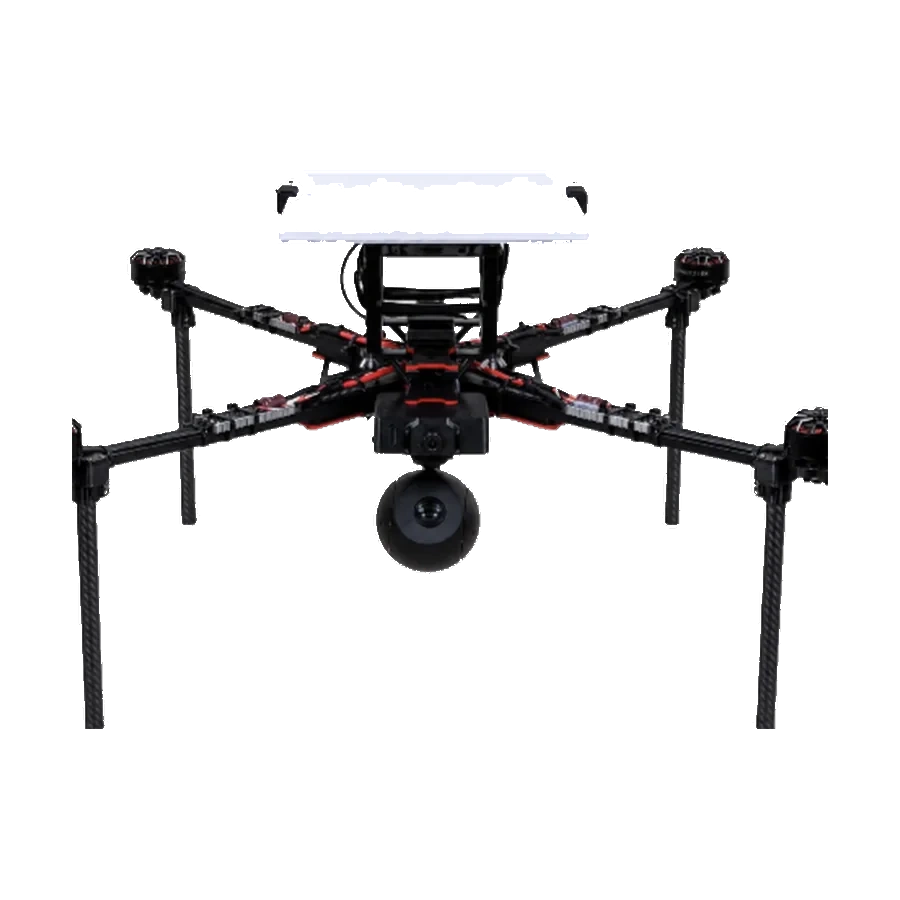
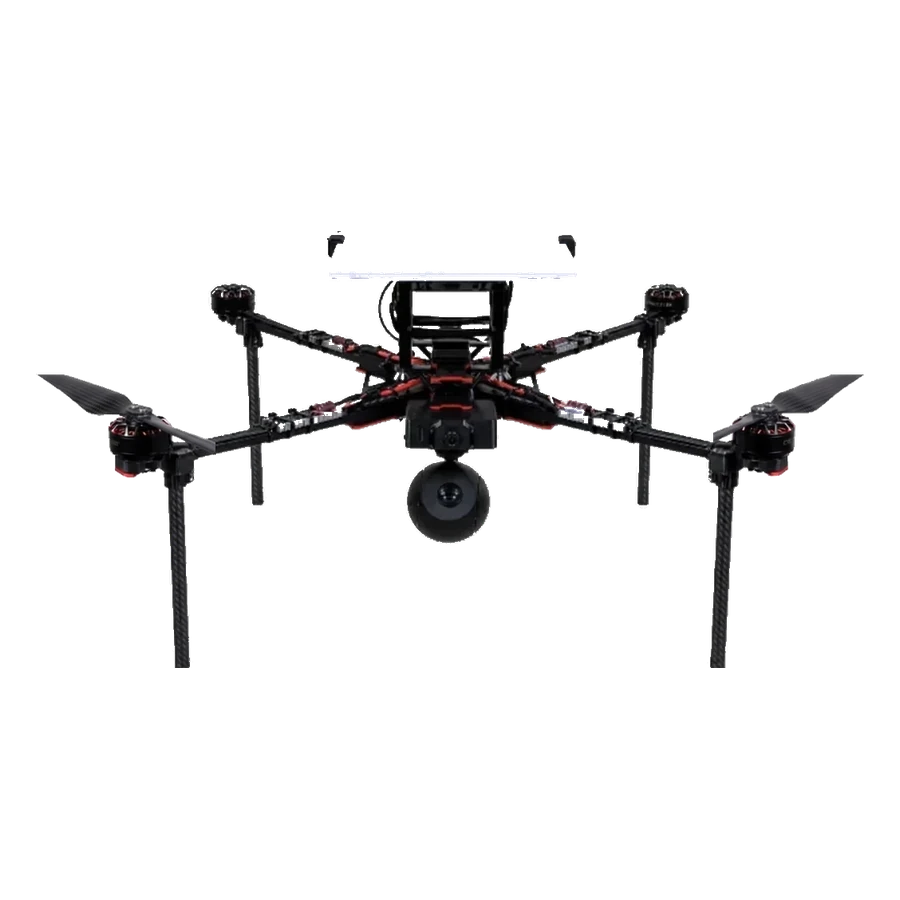
Фото: добудовано зрізані мотори розвідника, перекадровано фото з коробками
- zhrecon: домальовано обидва нижні мотори зі складеними пропелерами,
  решта пікселів з оригінального фото; прибрано артефакти
- окремі кадри для обкладинки (1240x900) і для плиток та креслення (900x900)
- виноски на кресленні переставлено під новий кадр
- story-odesa перезібрано з оригіналу в 4:3 із запасом над головою

Changed region(s): [[0.0311, 0.1867, 0.9644, 0.8089]]

diff --git a/zhnets-recon.html b/zhnets-recon.html
@@ -668,9 +668,9 @@ html.hdr-sc .topbar{border-bottom-width:0;visibility:hidden;pointer-events:none}
         <div class="drawing">
           <div class="drawing-zoom">
           <img src="assets/img/zhrecon.webp" alt="Розвідувальний «Жнець», вигляд спереду" width="900" height="900" loading="lazy">
-          <button type="button" class="callout" data-callout="0" style="left:48%;top:59%" aria-label="01: Камера">01</button>
-          <button type="button" class="callout" data-callout="1" style="left:48%;top:22%" aria-label="02: Керування та навігація">02</button>
-          <button type="button" class="callout" data-callout="2" style="left:78%;top:30%" aria-label="03: Мотори та живлення">03</button>
+          <button type="button" class="callout" data-callout="0" style="left:50%;top:47%" aria-label="01: Камера">01</button>
+          <button type="button" class="callout" data-callout="1" style="left:50.3%;top:30.3%" aria-label="02: Керування та навігація">02</button>
+          <button type="button" class="callout" data-callout="2" style="left:86%;top:52.5%" aria-label="03: Мотори та живлення">03</button>
           </div>
         </div>
         <ol class="pin-rail" id="pin-rail" aria-label="Етапи"></ol>
